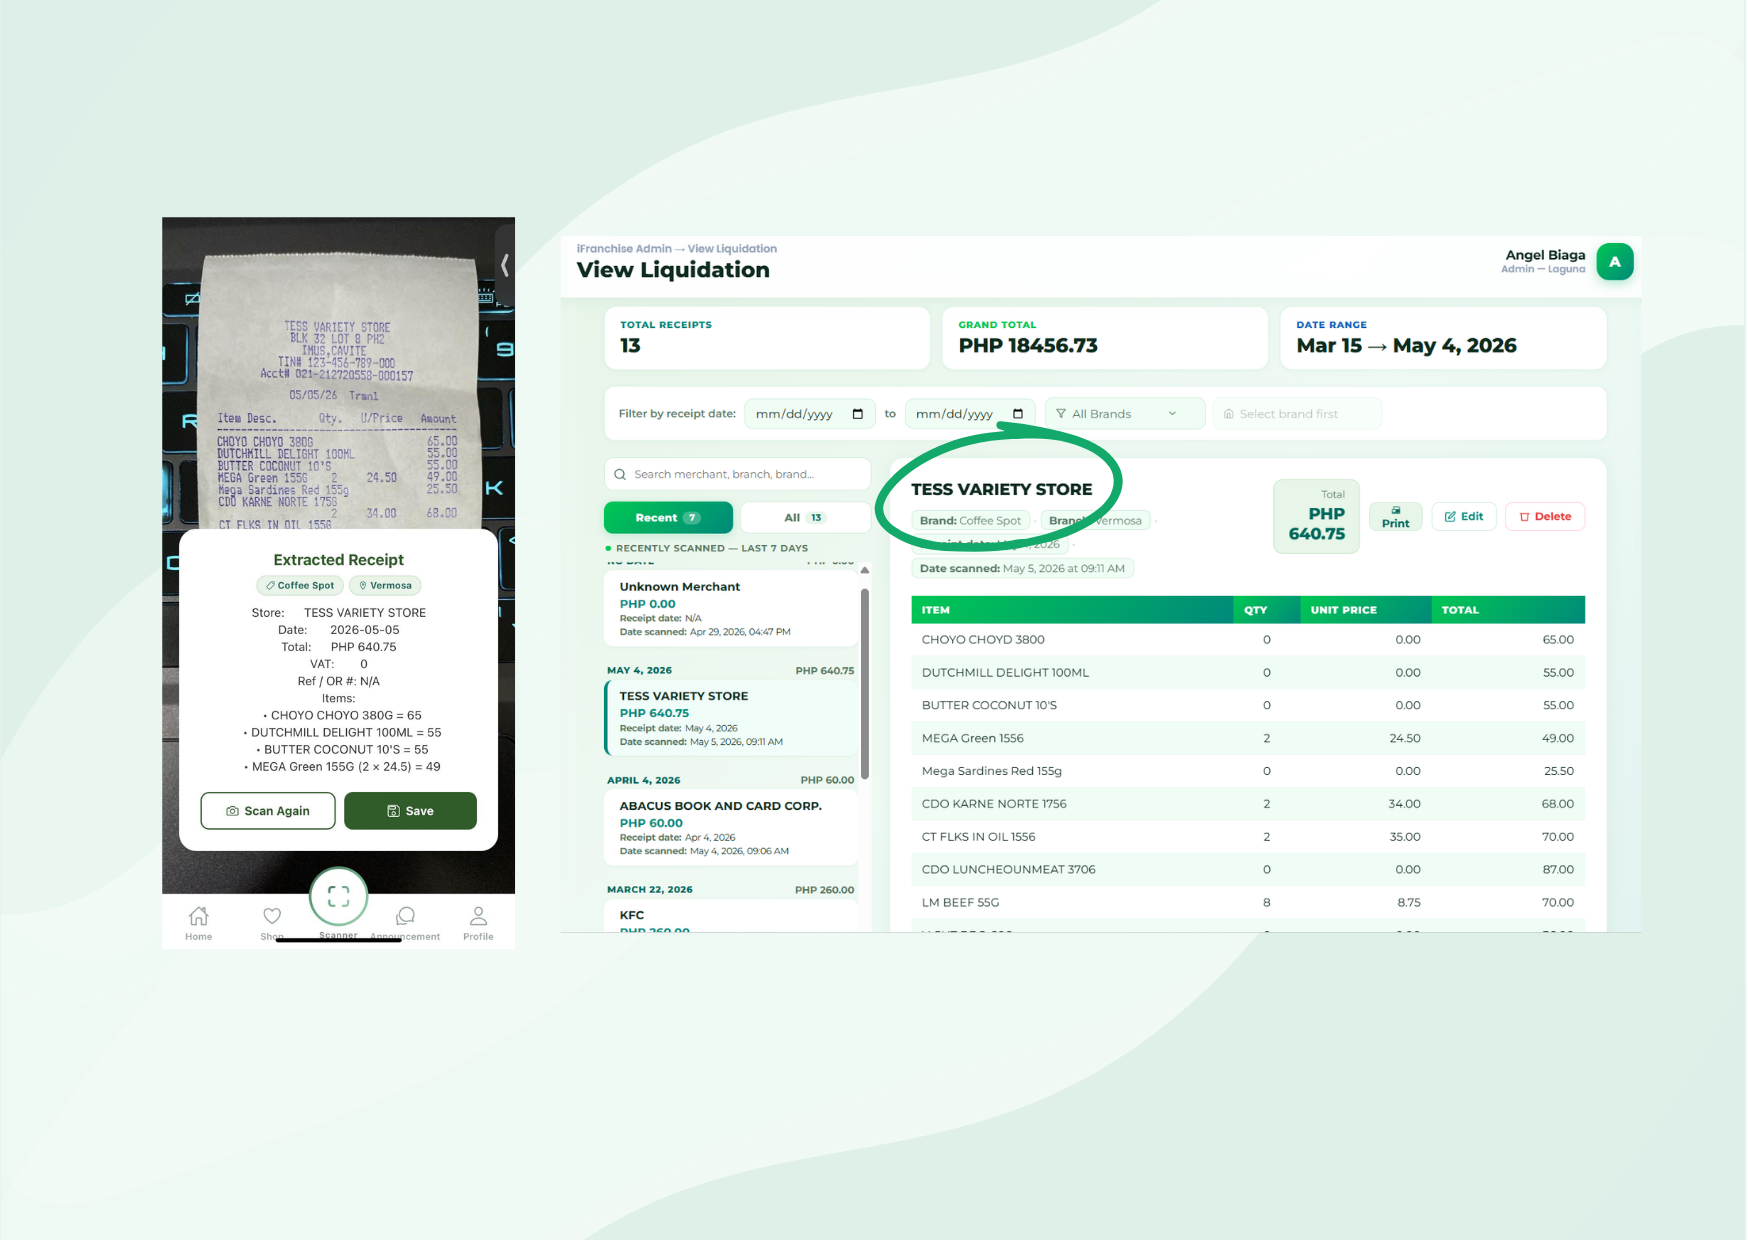
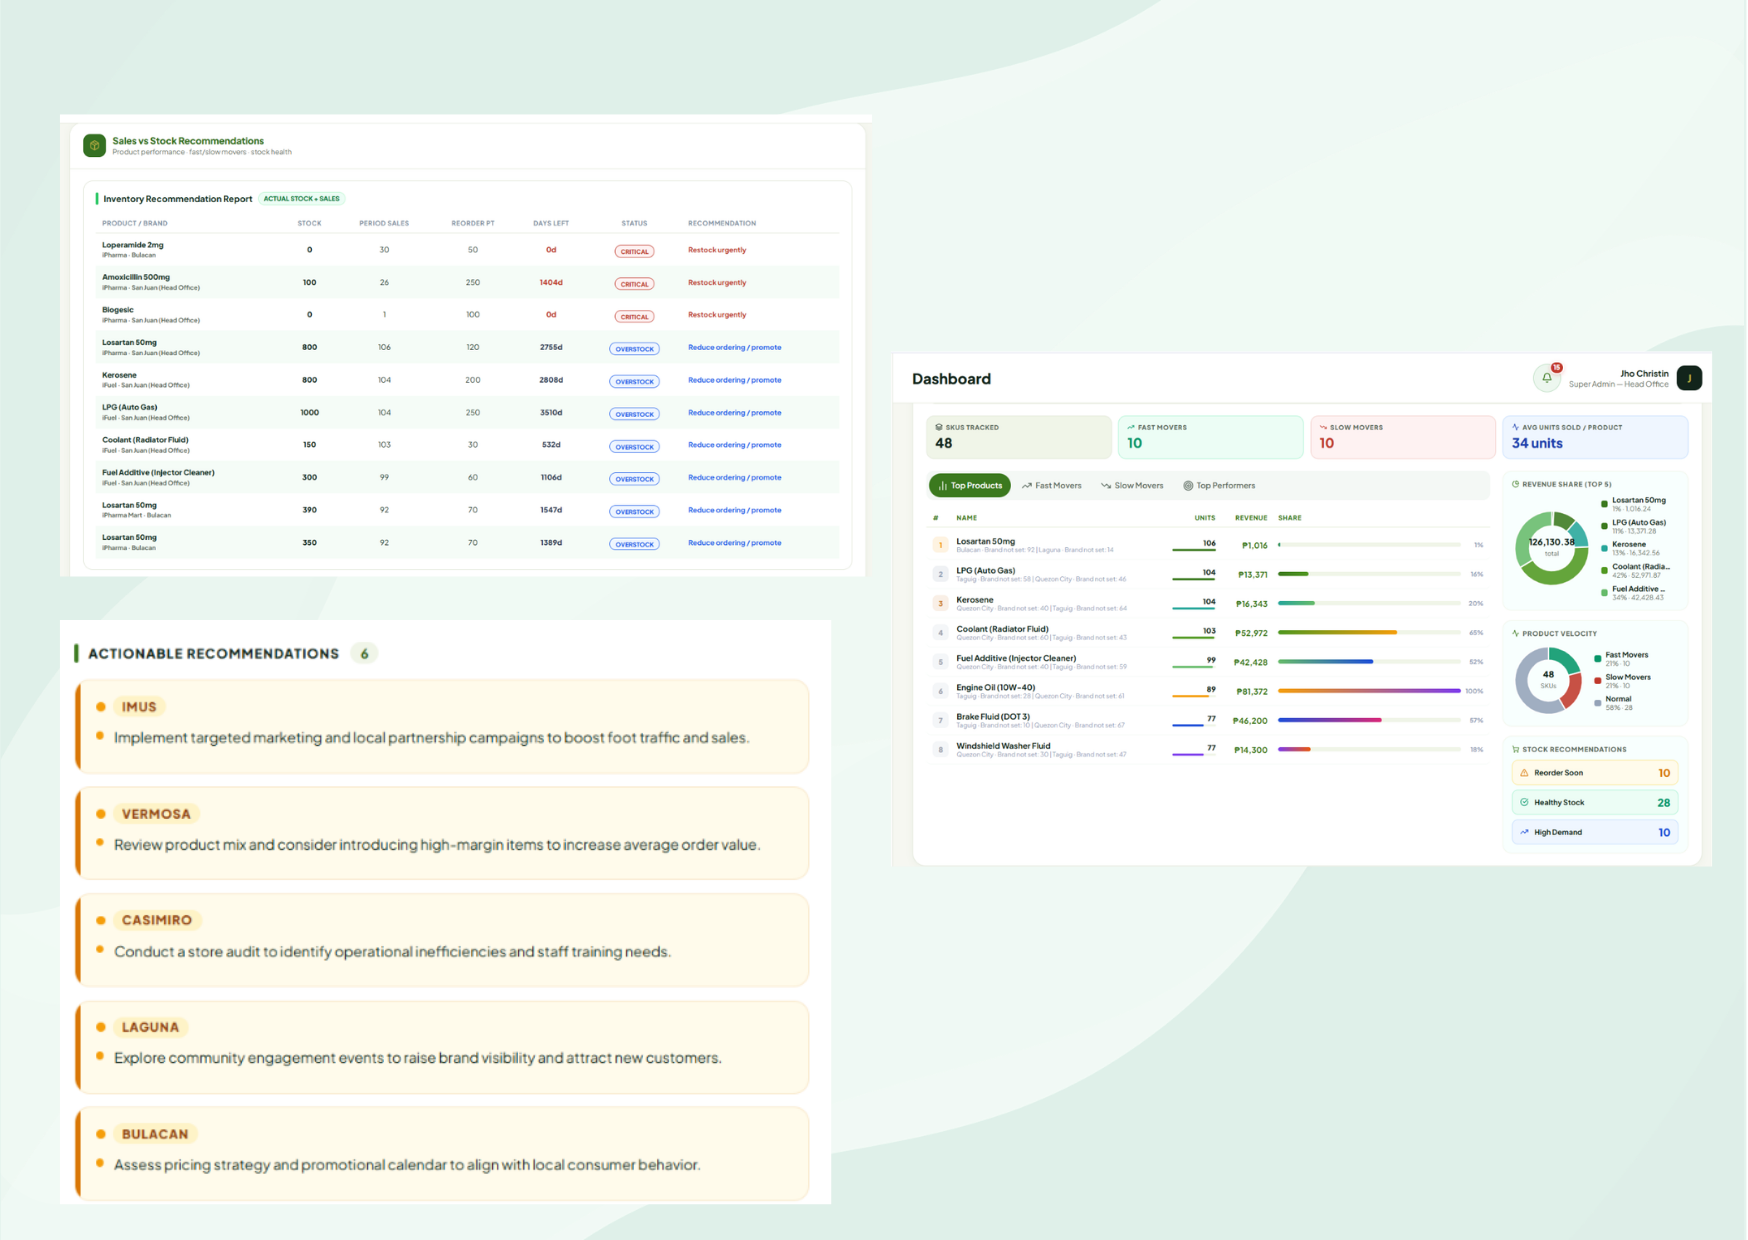
landing

diff --git a/ifranchise-frontend/src/components/LandingPage.jsx b/ifranchise-frontend/src/components/LandingPage.jsx
@@ -11,11 +11,11 @@ import card2Img from "../assets/cards (2).png";
 const CARDS = [
   {
     icon: "scan",
-    eyebrow: "Receipt Intelligence",
-    title: "Optical Character Recognition (OCR)",
-    text: "An OCR-powered receipt scanner that makes liquidation faster, smarter, and fully digital. Simply scan receipts and the system automatically extracts and records the details with high accuracy — no manual encoding needed.",
+    eyebrow: "Prescriptive Analysis",
+    title: "Prescriptive & Ghost Stock Analysis",
+    text: "provides data-driven insights into inventory and revenue discrepancies by identifying potential ghost stock, unusual branch-level activity, and supply-to-POS inconsistencies. It analyzes recorded HQ supply and POS sales to detect possible loss risks, highlights branches that exceed the expected 12% variance threshold, and provides actionable recommendations to support inventory reconciliation and corrective decision-making.",
     image: card3Img,
-    imageAlt: "OCR receipt scanning interface",
+    imageAlt: "Analysis",
   },
   {
     icon: "chart",
